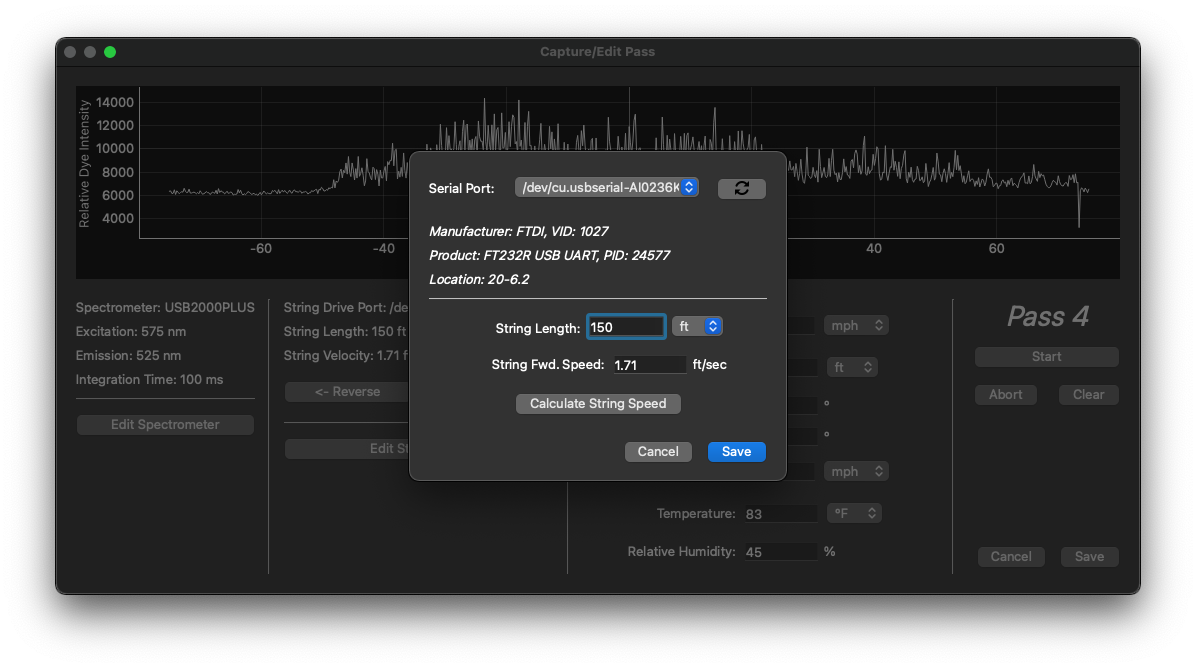
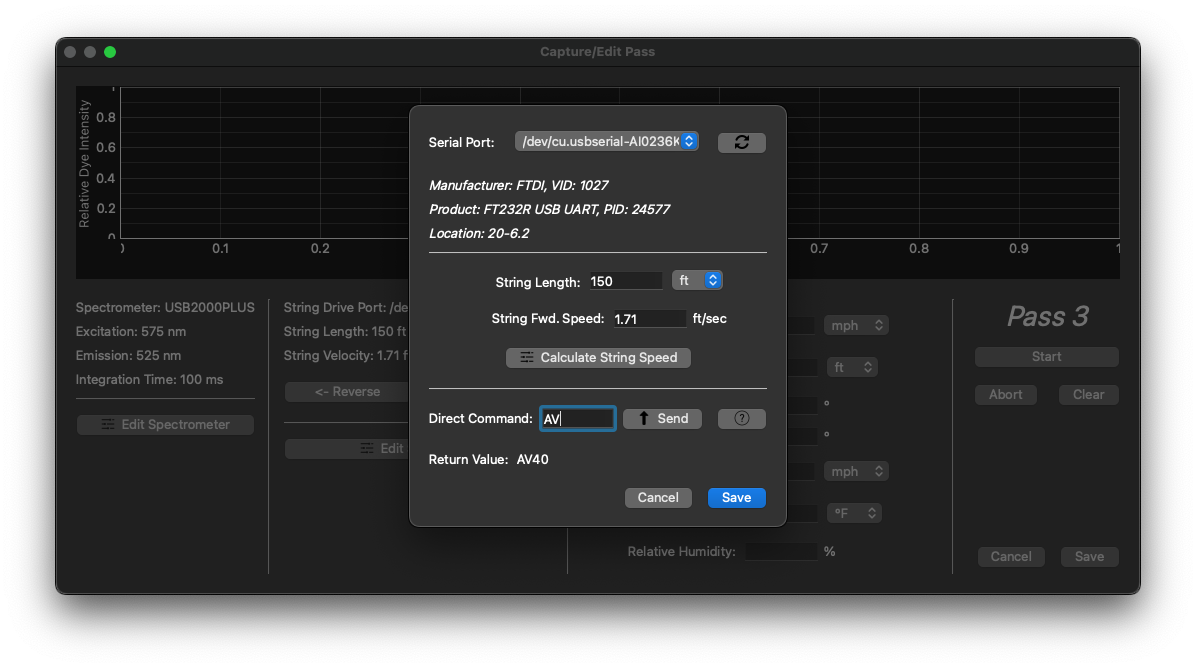
add string drive direct command and return

diff --git a/accupatt/windows/editStringDrive.py b/accupatt/windows/editStringDrive.py
@@ -1,4 +1,5 @@
 import os
+import subprocess
 import serial
 
 import accupatt.config as cfg
@@ -44,6 +45,10 @@ class EditStringDrive(baseclass):
         
         #Init calc string speed button
         self.ui.buttonCalculateStringSpeed.pressed.connect(self.click_calc_speed)
+        
+        # Direct commands
+        self.ui.pushButtonSendCommand.pressed.connect(self.send_command)
+        self.ui.pushButtonHelp.pressed.connect(self.openStepperManual)
 
         self.show()
 
@@ -91,6 +96,20 @@ class EditStringDrive(baseclass):
         e.speed_accepted[str,str].connect(self.update_speed)
         e.exec()
 
+    @pyqtSlot()
+    def send_command(self):
+        if self.ser and self.ser.is_open:
+            command: str = self.ui.lineEditCommand.text()
+            command = command + '\r'
+            if command != '':
+                self.ser.write(command.encode())
+                self.ui.labelReturn.setText(self.ser.readline().decode('utf-8'))
+
+    @pyqtSlot()
+    def openStepperManual(self):
+        file = os.path.join(os.getcwd(), 'resources', 'documents', 'weeder_stepper_driver_manual.pdf')
+        subprocess.call(["open", file])
+    
     def strip_num(self, x) -> str:
         if type(x) is str:
             if x == '':
